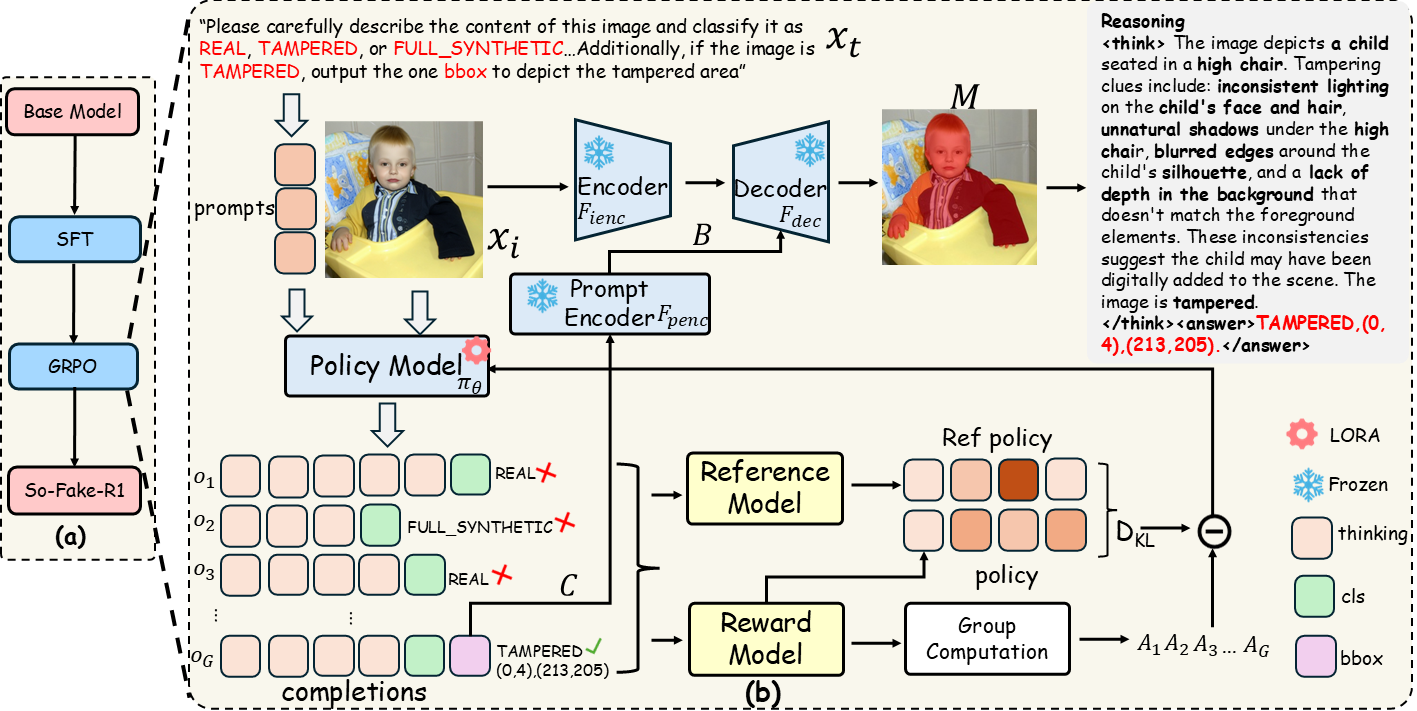
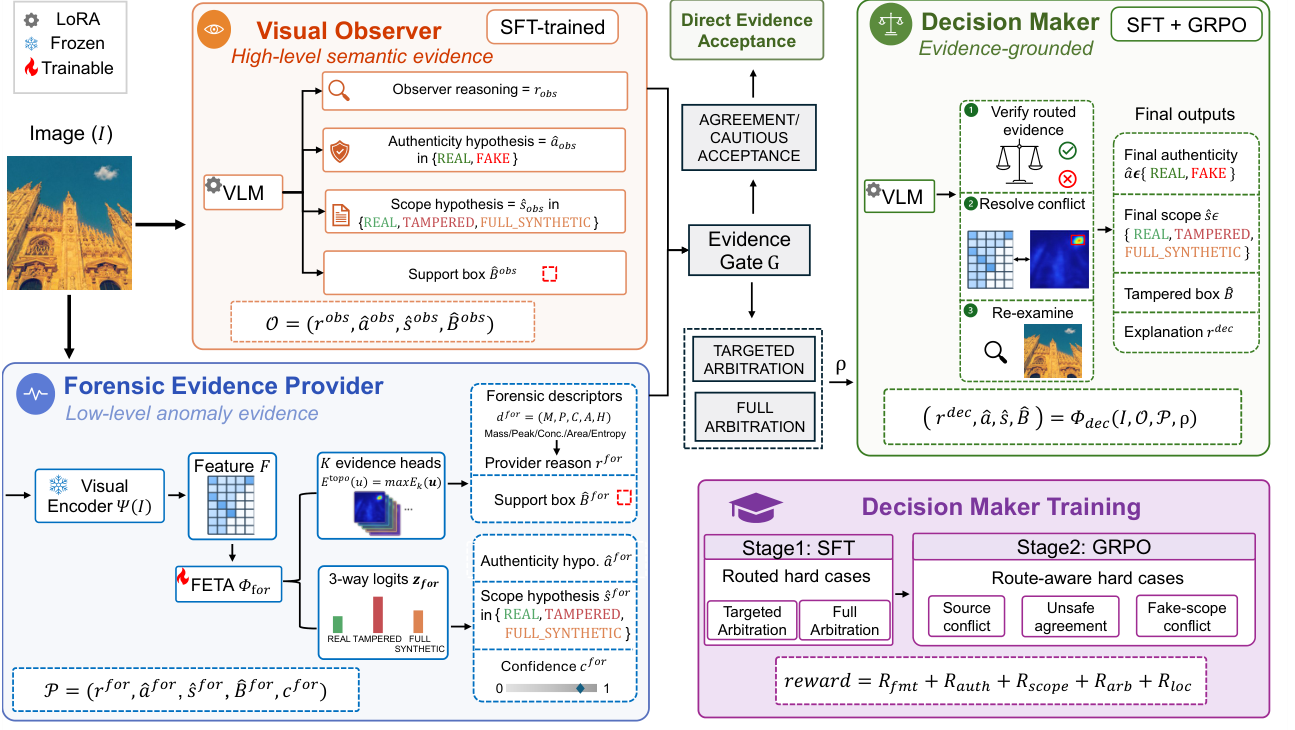
Update README for So-Fake PAMI release

diff --git a/README.md b/README.md
@@ -1,5 +1,5 @@
 <div align="center">
-<h3> So-Fake: Benchmarking and Explaining Social Media Image Forgery Detection </h3>
+<h3> So-Fake: Benchmarking Social-Media Image Forgery Detection </h3>
 
   <p align="center">
     <a href='https://arxiv.org/abs/2505.18660'>
@@ -16,28 +16,38 @@
 </div>
 
 
-[Zhenglin Huang](https://scholar.google.com/citations?user=30SRxRAAAAAJ&hl=en&oi=ao), [Tianxiao Li](https://tianxiao1201.github.io/), [Xiangtai Li](https://lxtgh.github.io/), [Haiquan Wen](https://orcid.org/0009-0009-3804-6753), [Yiwei He](https://orcid.org/0000-0003-0717-8517), [Jiangning Zhang](https://www.researchgate.net/profile/Jiangning-Zhang), [Hao Fei](https://haofei.vip/), [Xi Yang](https://scholar.google.com/citations?user=ddfKpX0AAAAJ&hl=zh-CN), [Baoyuan Wu](https://sites.google.com/site/baoyuanwu2015/home), 
-[Bei Peng](https://beipeng.github.io/), [Xiaowei Huang](https://cgi.csc.liv.ac.uk/~xiaowei/), [Guangliang Cheng](https://sites.google.com/view/guangliangcheng/homepage)
+[Zhenglin Huang](https://scholar.google.com/citations?user=30SRxRAAAAAJ&hl=en&oi=ao),
+[Xiangtai Li](https://lxtgh.github.io/),
+[Xi Yang](https://scholar.google.com/citations?user=ddfKpX0AAAAJ&hl=zh-CN),
+[Bei Peng](https://beipeng.github.io/),
+[Xiaowei Huang](https://cgi.csc.liv.ac.uk/~xiaowei/),
+[Baoyuan Wu](https://sites.google.com/site/baoyuanwu2015/home),
+Dacheng Tao,
+Ming-Hsuan Yang,
+[Guangliang Cheng](https://sites.google.com/view/guangliangcheng/homepage)
 
 
-Welcome to our work **So-Fake**, for social media forgery images detection. 
+Welcome to **So-Fake**, a benchmark and evidence-grounded framework for social-media image forgery detection.
 
 In this work, we propose: 
 
-> ✅ **One Dataset:** **So-Fake-Set:** A large-scale, diverse dataset tailored for social media image forgery detection!
+> ✅ **One Dataset:** **So-Fake-Set**, a large-scale training/validation corpus with approximately **2M** images across **12** semantic categories and three authenticity scopes: **REAL**, **FULL_SYNTHETIC**, and **TAMPERED**.
 > 
-> ✅ **One Benchmark: So-Fake-OOD:** A challenging out-of-distribution benchmark built from real-world Reddit content.
+> ✅ **One Benchmark:** **So-Fake-OOD**, a **100K** held-out OOD benchmark with authentic images from Reddit, X, Instagram, Bluesky, and Tumblr, and forgeries from disjoint commercial generators.
 > 
-> ✅ **One Method: So-Fake-R1:** A unified, explainable vision-language framework optimized via reinforcement learning.
+> ✅ **One Method:** **So-Fake-R1**, an evidence-grounded framework that combines semantic observation, forensic anomaly evidence, an evidence gate, and selective Decision Maker arbitration.
 > 
 
 
 ## Abstract
-Recent advances in AI-powered generative models have enabled the creation of increasingly realistic synthetic images, posing significant risks to information integrity and public trust on social media platforms. While robust detection frameworks and diverse, large-scale datasets are essential to mitigate these risks, existing academic efforts remain limited in scope: current datasets lack the diversity, scale, and realism required for social media contexts, and evaluation protocols rarely account for explanation or out-of-domain generalization.
+Generative models now produce synthetic images that are increasingly difficult to distinguish from authentic social-media content, threatening information integrity and public trust. Robust mitigation requires both representative benchmarks and reliable detectors, yet existing resources often lack broad social-media content, recent high-fidelity generators, joint protocols, and dedicated OOD evaluation.
 
-To bridge this gap, we introduce **So-Fake**, a comprehensive social media-oriented dataset for forgery detection consisting of two key components. First, we present **So-Fake-Set**, a large-scale dataset with over **2 million** photorealistic images from diverse generative sources, synthesized using a wide range of generative models. Second, to rigorously evaluate cross-domain robustness, we establish **So-Fake-OOD**, a novel and large-scale (**100K**) out-of-domain benchmark sourced from real social media platforms and featuring synthetic imagery from commercial models explicitly excluded from the training distribution, creating a realistic testbed that mirrors actual deployment scenarios. Leveraging these complementary datasets, we present **So-Fake-R1**, a baseline framework that applies reinforcement learning to encourage interpretable visual rationales. Experiments show that So-Fake surfaces substantial challenges for existing methods. By integrating a large-scale dataset, a realistic out-of-domain benchmark, and a multi-dimensional evaluation protocol, So-Fake establishes a new foundation for social media forgery detection research.
+We introduce **So-Fake**, a comprehensive benchmark for social-media image forgery detection. **So-Fake-Set** provides approximately **2M** training and validation images across **12** semantic categories, spanning authentic images and forgeries generated by diverse synthesis and editing models. **So-Fake-OOD** provides a **100K** held-out benchmark that combines authentic imagery from five social-media platforms with forgeries from disjoint commercial generators, approximating real deployment shifts. Under a unified three-way protocol over **REAL**, **FULL_SYNTHETIC**, and **TAMPERED** images, So-Fake jointly evaluates authenticity detection, tampered-region localization, and explanation in both in-domain and OOD settings.
+
+We further present **So-Fake-R1**, an evidence-grounded framework with three roles: a **Visual Observer** for semantic cues, a **Forensic Evidence Provider** for low-level anomaly evidence, and a **Decision Maker** for selective arbitration. A deterministic evidence gate accepts sufficiently supported evidence directly and routes conflicting or weakly supported cases to the Decision Maker. Extensive experiments establish So-Fake as a challenging benchmark and show that So-Fake-R1 achieves strong OOD detection and localization while providing evidence-grounded explanations.
 
 ## News
+- 🔥 (01-08-2026) We released the inference code for [So-Fake-R1](sofake_r1/) and model download scripts.
 - 🔥 (23-05-2025) We are pleased to announce the release of [So-Fake-OOD](https://huggingface.co/datasets/saberzl/So-Fake-OOD).
 - 🔥 (29-10-2025) We are pleased to announce the release of [So-Fake-Set](https://huggingface.co/datasets/saberzl/So-Fake-Set).
 
@@ -46,24 +56,20 @@ To bridge this gap, we introduce **So-Fake**, a comprehensive social media-orien
 <div align="left">
   <img src="images/ICLR_Figure1.png" width="100%">
     <figcaption>
-  <strong>(a) Overview.</strong> So-Fake comprises So-Fake-Set (train/val) and So-Fake-OOD (test), which together enable evaluation of detection, localization, and explanation with So-Fake-R1. 
-  <strong>(b) Illustrative Example.</strong> A real image from the subreddit <em>pics</em> is captioned by an LLM, combined with Language SAM and an inpainting model to produce tampered samples. So-Fake-R1 then analyzes the manipulated image and outputs the class label, localized region, and an interpretable rationale.
+  <strong>(a) So-Fake.</strong> So-Fake comprises So-Fake-Set (train/val) and So-Fake-OOD (test), spanning REAL, FULL_SYNTHETIC, and TAMPERED images for detection, localization, and explanation.
+  <strong>(b) So-Fake-R1.</strong> So-Fake-R1 builds complementary Visual Observer and Forensic Evidence Provider records, then uses an Evidence Gate and a Decision Maker to produce the final authenticity label, forgery scope, localization, and explanation.
 </figcaption>
 </div>
 
 ## Dataset Access
 
-We provide two methods to access the So-Fake-OOD:
+We provide the So-Fake datasets and So-Fake-R1 model release through Hugging Face:
 
-1. Public Access via [Hugging Face](https://huggingface.co/datasets/saberzl/So-Fake-OOD)
+1. [So-Fake-Set](https://huggingface.co/datasets/saberzl/So-Fake-Set)
+2. [So-Fake-OOD](https://huggingface.co/datasets/saberzl/So-Fake-OOD)
+3. [So-Fake-R1 model weights](https://huggingface.co/saberzl/So-Fake-R1)
 
-
-2. Download from Google Drive
-[here](https://drive.google.com/drive/folders/1okP2S6LO-VvH69MDqpeRhYZypfJ0ZHoG?usp=sharing)
-
-**🔥 New**：
-We have updated So-Fake-OOD to version 2, which you can download via huggingface or Google Drive
-[here](https://drive.google.com/drive/folders/1U30QycEloRncS8iE2VqCbobrrhGNuiPL?usp=sharing)
+For platform-policy compliance, X and Instagram samples in So-Fake-OOD are released through source hyperlinks rather than redistributed image files.
 
 ## So-Fake-R1 Inference
 
@@ -88,7 +94,9 @@ outputs/sofake_r1_example/sofake_r1_single_image_result.jsonl
 ## Method
 <div align="left">
     <img src="images/Method.png" width="100%">
-    <figcaption> (a): Overview of the <strong>So-Fake-R1</strong> training process; (b): The detailed <strong>So-Fake-R1</strong> GRPO training process. The example shows a tampered image where a boy has been manipulated.  </figcaption>
+    <figcaption>
+    <strong>So-Fake-R1.</strong> The Visual Observer produces semantic evidence, the Forensic Evidence Provider derives low-level anomaly descriptors and support regions, and the Evidence Gate either directly accepts sufficiently supported records or routes hard cases to the Decision Maker for arbitration.
+    </figcaption>
 
 </div>
 
@@ -129,10 +137,10 @@ outputs/sofake_r1_example/sofake_r1_single_image_result.jsonl
 ## Citation 
 
 ```
-@misc{huang2025sofakebenchmarkingexplainingsocial,
-      title={So-Fake: Benchmarking and Explaining Social Media Image Forgery Detection}, 
-      author={Zhenglin Huang and Tianxiao Li and Xiangtai Li and Haiquan Wen and Yiwei He and Jiangning Zhang and Hao Fei and Xi Yang and Xiaowei Huang and Bei Peng and Guangliang Cheng},
-      journal={arXiv preprint arXiv:2505.13379},
-      year={2025}
+@misc{huang2026sofake,
+      title={So-Fake: Benchmarking Social-Media Image Forgery Detection},
+      author={Zhenglin Huang and Xiangtai Li and Xi Yang and Bei Peng and Xiaowei Huang and Baoyuan Wu and Dacheng Tao and Ming-Hsuan Yang and Guangliang Cheng},
+      journal={arXiv preprint arXiv:2505.18660},
+      year={2026}
 }
 ```
